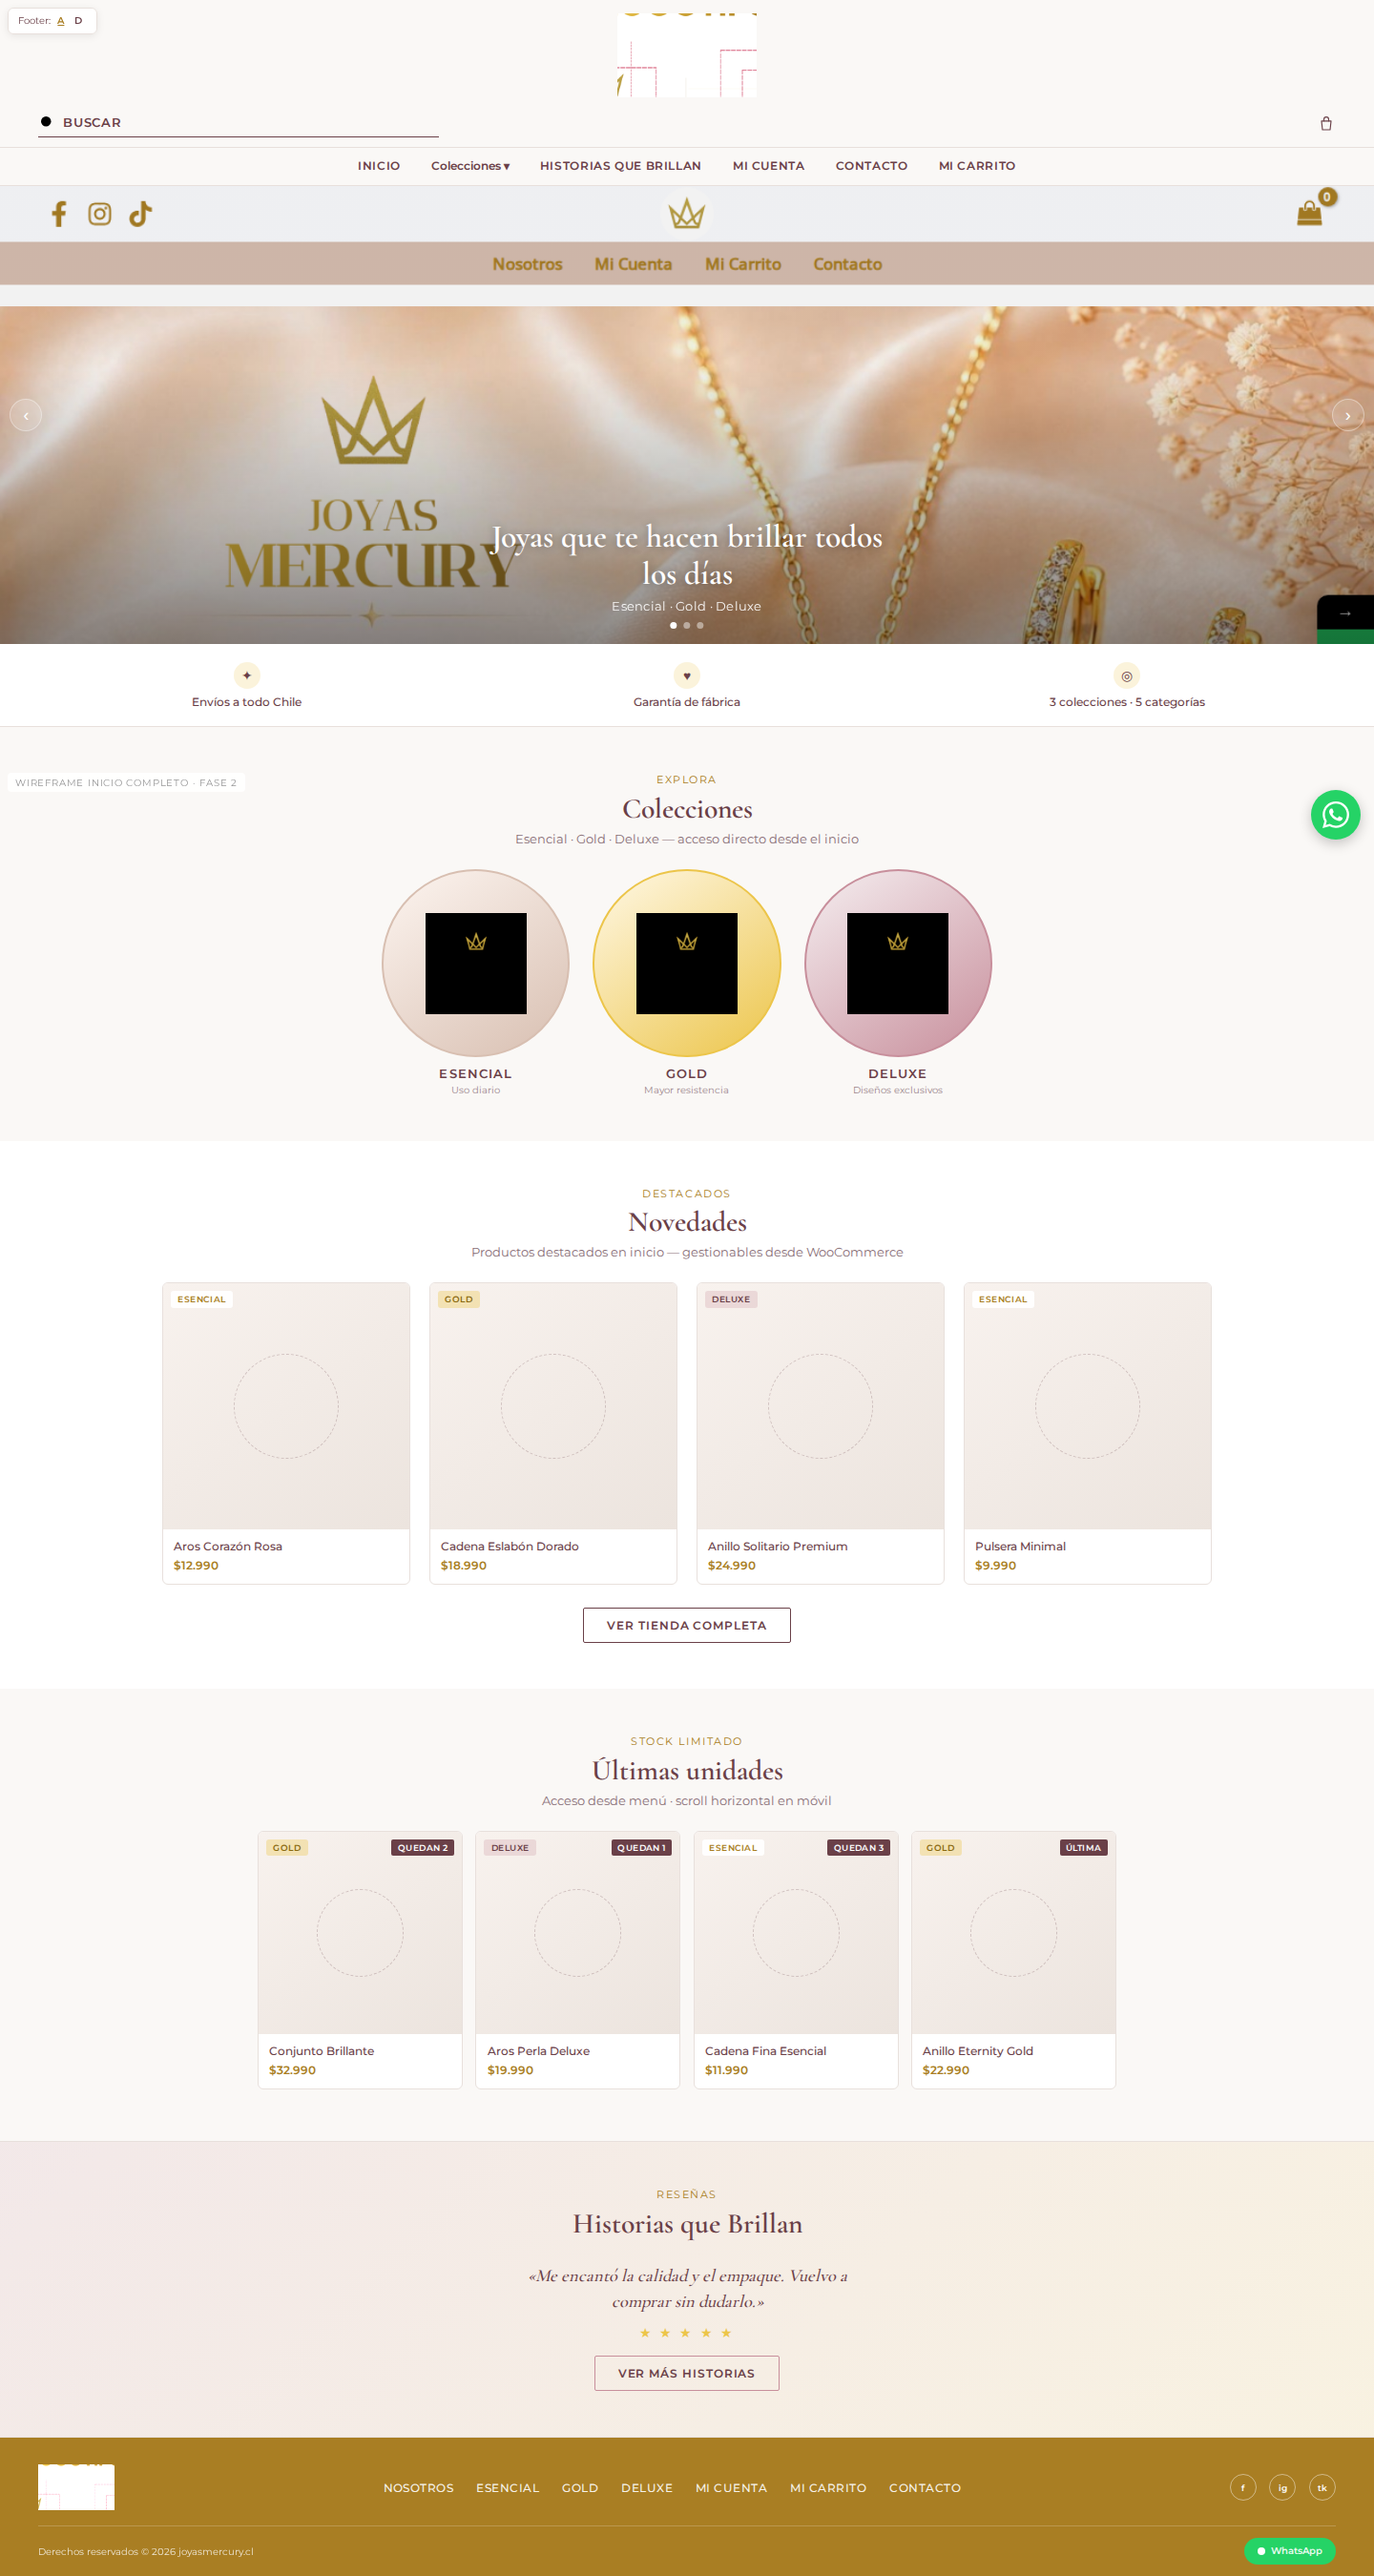
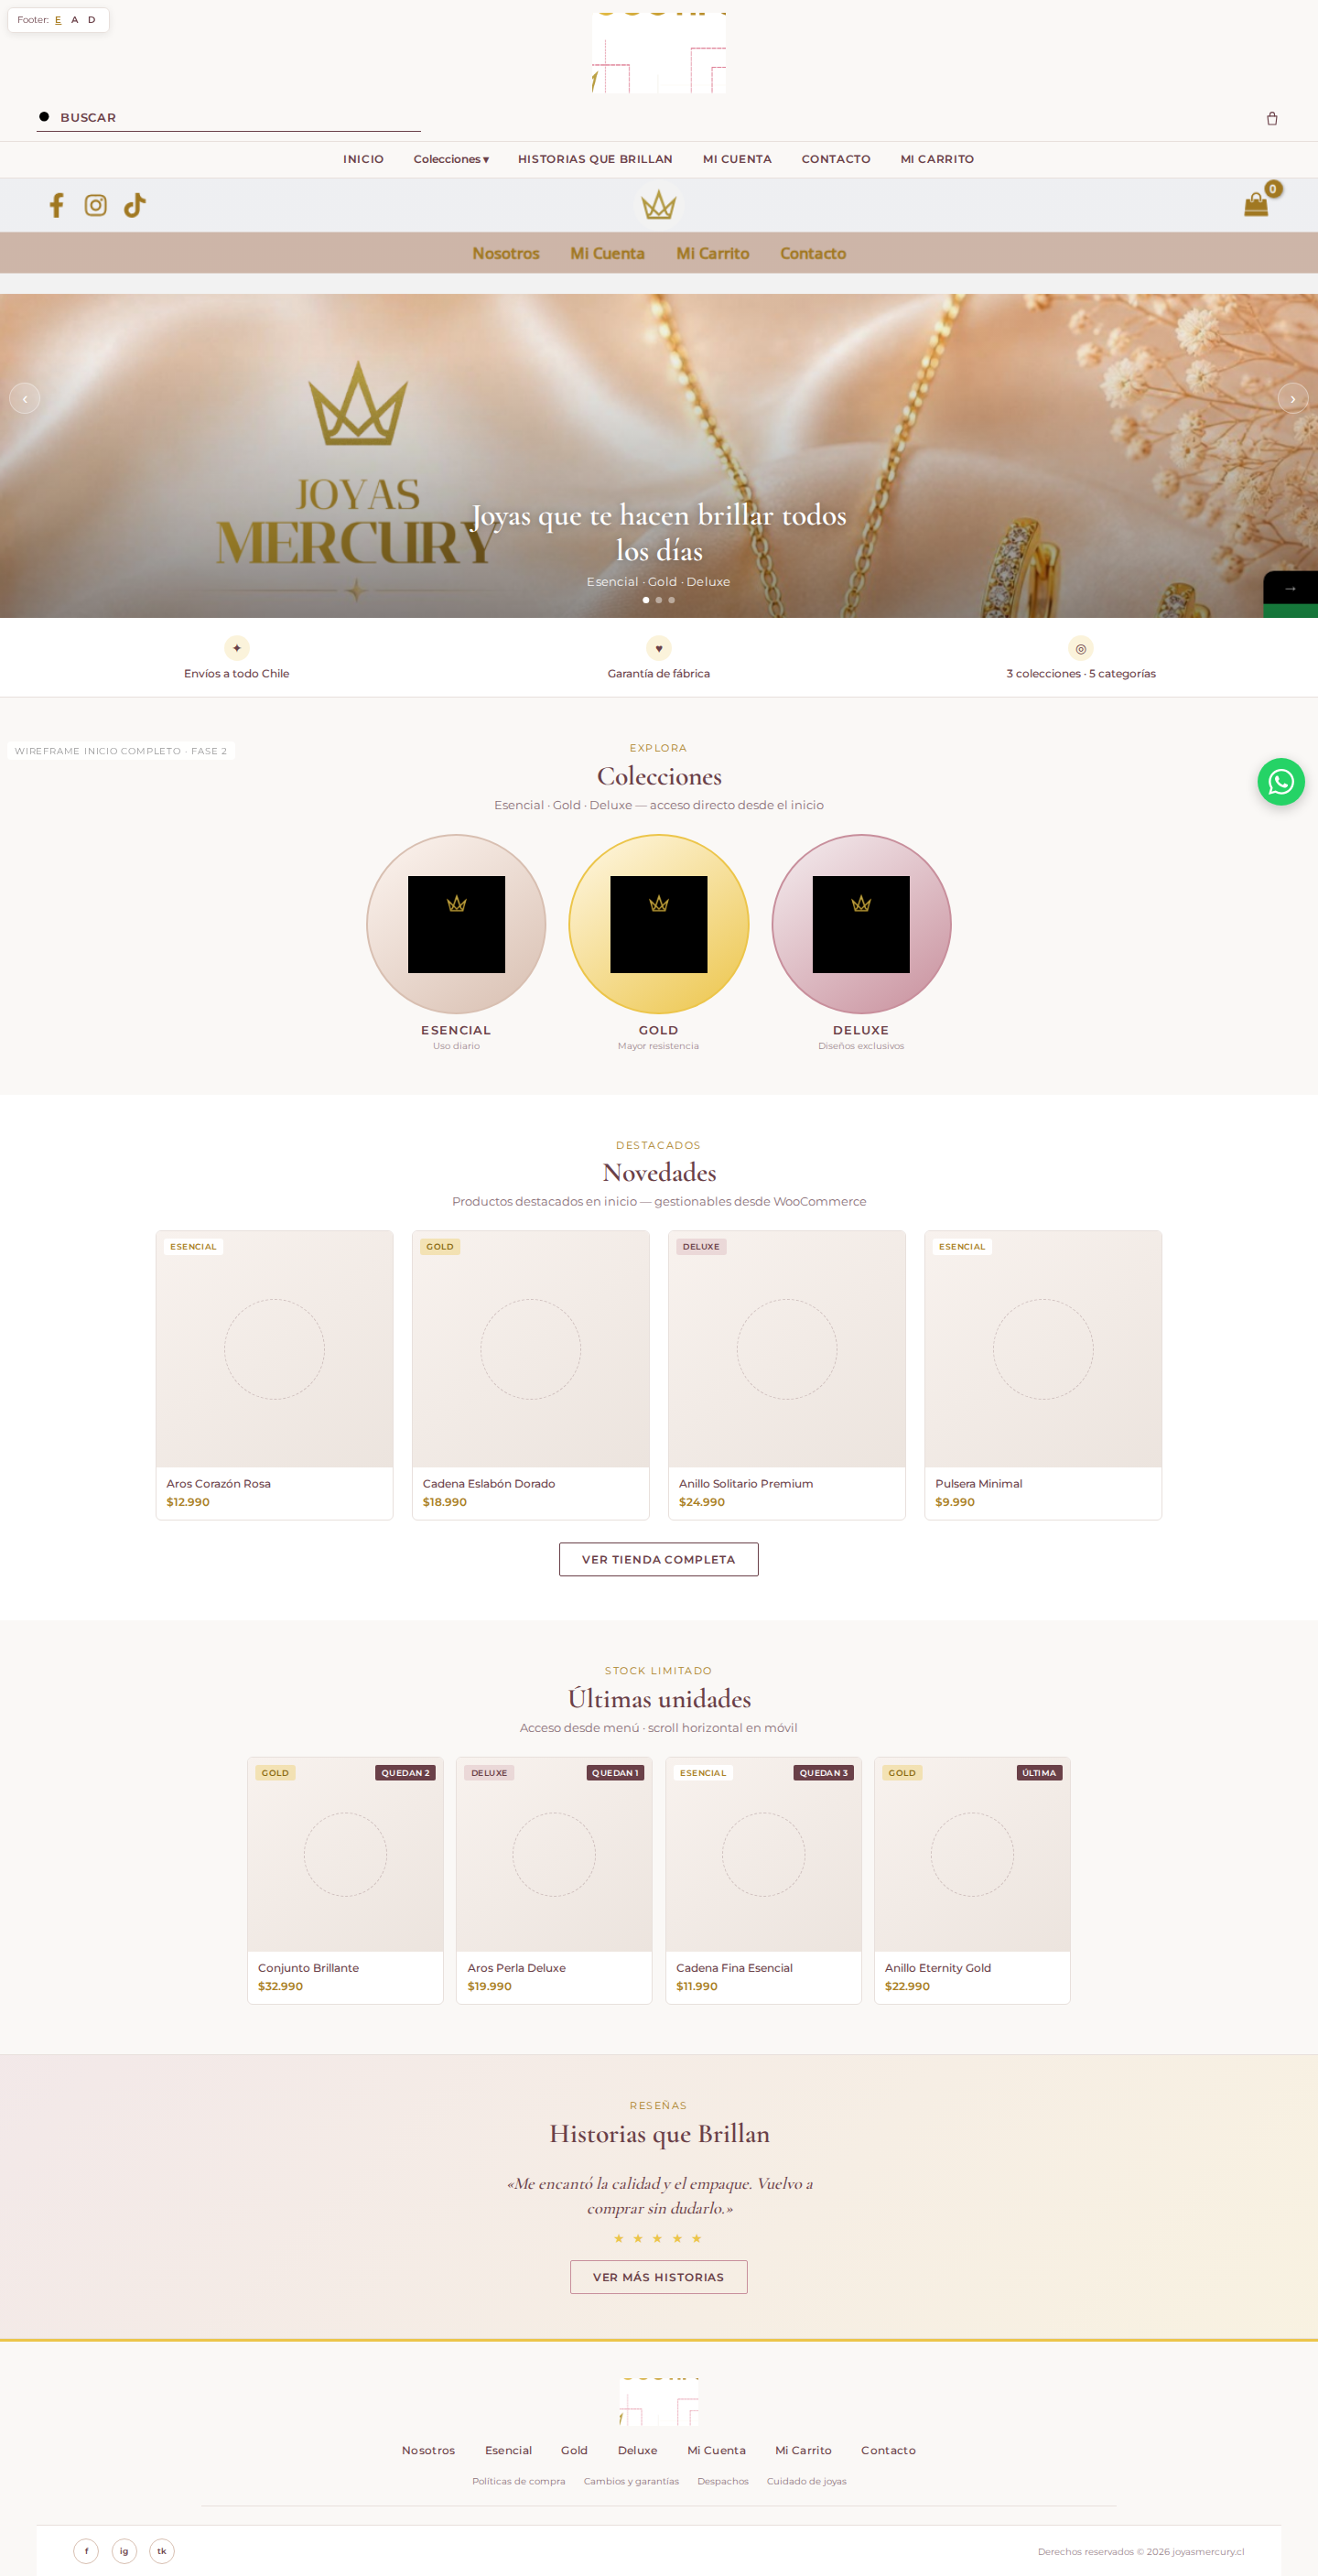
JM: footer E claro premium sin marco dorado (nuevo default)
Fondo crema, línea gold fina, links limpios y barra blanca inferior.
A y D siguen disponibles con ?footer=a|d.

diff --git a/index/clientes/JoyasMercury/interfaces/mockups-inicio/wireframe-inicio.html b/index/clientes/JoyasMercury/interfaces/mockups-inicio/wireframe-inicio.html
@@ -450,7 +450,11 @@
     .ft__wa-dot { width: 8px; height: 8px; background: #fff; border-radius: 50%; }
 
     body[data-footer="a"] #footer-d,
-    body[data-footer="d"] #footer-a { display: none; }
+    body[data-footer="a"] #footer-e,
+    body[data-footer="d"] #footer-a,
+    body[data-footer="d"] #footer-e,
+    body[data-footer="e"] #footer-a,
+    body[data-footer="e"] #footer-d { display: none; }
 
     .ft-a {
       background: var(--gold-dark);
@@ -502,6 +506,72 @@
     .ft-d__copy {
       border-top: 1px solid rgba(255,255,255,0.2);
       padding-top: 0.75rem; text-align: center;
+    }
+
+    /* —— Footer E · claro premium (sin marco dorado) —— */
+    .ft-e {
+      background: var(--cream);
+      color: var(--mauve);
+      border-top: 3px solid var(--gold);
+      padding: 2rem 1.25rem 0;
+    }
+    .ft-e a { color: var(--mauve); }
+    .ft-e a:hover { color: var(--gold-dark); }
+    .ft-e__inner {
+      max-width: 1000px;
+      margin: 0 auto;
+      text-align: center;
+    }
+    .ft-e__logo {
+      height: 52px;
+      width: auto;
+      margin: 0 auto 1.25rem;
+      display: block;
+      filter: none;
+    }
+    .ft-e__nav {
+      display: grid;
+      grid-template-columns: 1fr 1fr;
+      gap: 0.45rem 1.5rem;
+      max-width: 320px;
+      margin: 0 auto 1.25rem;
+      text-align: left;
+    }
+    .ft-e__nav a {
+      font-size: 0.72rem;
+      font-weight: 500;
+      letter-spacing: 0.03em;
+    }
+    .ft-e__legal {
+      display: flex;
+      flex-wrap: wrap;
+      justify-content: center;
+      gap: 0.5rem 1.25rem;
+      margin-bottom: 1.25rem;
+      padding-bottom: 1.25rem;
+      border-bottom: 1px solid var(--line);
+    }
+    .ft-e__legal a {
+      font-size: 0.65rem;
+      color: #8a7078;
+    }
+    .ft-e__bottom {
+      background: #fff;
+      border-top: 1px solid var(--line);
+      padding: 0.85rem 1.25rem;
+      display: flex;
+      flex-direction: column;
+      align-items: center;
+      gap: 0.65rem;
+    }
+    .ft-e__social span {
+      border-color: var(--beige);
+      color: var(--mauve);
+    }
+    .ft-e__copy {
+      font-size: 0.62rem;
+      color: #9a858c;
+      opacity: 1;
     }
 
     .jm-footer-switch {
@@ -643,6 +713,20 @@
       }
       .ft-d__brand img { margin: 0; height: 48px; }
       .ft-d__mid { grid-template-columns: repeat(3, 1fr); }
+      .ft-e { padding: 2.5rem 2.5rem 0; }
+      .ft-e__nav {
+        display: flex;
+        flex-wrap: wrap;
+        justify-content: center;
+        max-width: none;
+        gap: 0.5rem 2rem;
+        text-align: center;
+      }
+      .ft-e__bottom {
+        flex-direction: row;
+        justify-content: space-between;
+        padding: 0.85rem 2.5rem;
+      }
       .jm-bottom-nav { display: none; }
       .jm-wa-fab { bottom: 1.25rem; }
     }
@@ -881,11 +965,38 @@
 
   <div class="jm-footer-switch" aria-label="Alternar footer">
     Footer:
+    <a href="?footer=e" id="switch-e">E</a>
     <a href="?footer=a" id="switch-a">A</a>
     <a href="?footer=d" id="switch-d">D</a>
   </div>
 
-  <!-- Footer A · editorial horizontal (default) -->
+  <!-- Footer E · claro premium (default) -->
+  <footer class="ft ft-e" id="footer-e" aria-label="Pie de página · opción E">
+    <div class="ft-e__inner">
+      <img class="ft-e__logo" src="../../identidad/logo-jm-gold-vertical.png" alt="Joyas Mercury">
+      <nav class="ft-e__nav" aria-label="Enlaces principales">
+        <a href="#">Nosotros</a>
+        <a href="#">Esencial</a>
+        <a href="#">Gold</a>
+        <a href="#">Deluxe</a>
+        <a href="#">Mi Cuenta</a>
+        <a href="#">Mi Carrito</a>
+        <a href="#">Contacto</a>
+      </nav>
+      <div class="ft-e__legal">
+        <a href="#">Políticas de compra</a>
+        <a href="#">Cambios y garantías</a>
+        <a href="#">Despachos</a>
+        <a href="#">Cuidado de joyas</a>
+      </div>
+    </div>
+    <div class="ft-e__bottom">
+      <div class="ft__social ft-e__social"><span>f</span><span>ig</span><span>tk</span></div>
+      <p class="ft-e__copy">Derechos reservados © 2026 joyasmercury.cl</p>
+    </div>
+  </footer>
+
+  <!-- Footer A · editorial horizontal -->
   <footer class="ft ft-a" id="footer-a" aria-label="Pie de página · opción A">
     <div class="ft-a__row">
       <img class="ft__logo" src="../../identidad/logo-jm-gold-vertical.png" alt="Joyas Mercury">
@@ -976,12 +1087,13 @@
       dots.forEach(function (d, i) { d.onclick = function () { go(i); }; });
 
       var params = new URLSearchParams(location.search);
-      var footer = params.get('footer') === 'd' ? 'd' : 'a';
+      var footerParam = params.get('footer');
+      var footer = (footerParam === 'a' || footerParam === 'd') ? footerParam : 'e';
       document.body.dataset.footer = footer;
-      var swA = document.getElementById('switch-a');
-      var swD = document.getElementById('switch-d');
-      if (swA) swA.classList.toggle('is-active', footer === 'a');
-      if (swD) swD.classList.toggle('is-active', footer === 'd');
+      ['e', 'a', 'd'].forEach(function (k) {
+        var el = document.getElementById('switch-' + k);
+        if (el) el.classList.toggle('is-active', footer === k);
+      });
       if (params.get('shot') === '1') document.body.dataset.shot = '1';
       if (params.get('viewport') === 'desktop') document.body.dataset.shot = 'desktop';
     })();

diff --git a/index/clientes/JoyasMercury/interfaces/mockups-inicio/wireframe-footer-opciones.html b/index/clientes/JoyasMercury/interfaces/mockups-inicio/wireframe-footer-opciones.html
@@ -330,6 +330,38 @@
     .ft-d--mobile .ft-d__brand img { margin: 0 auto; display: block; }
     .ft-d--mobile .ft-d__mid { grid-template-columns: 1fr 1fr; text-align: left; }
 
+    /* —— E · Claro premium —— */
+    .ft-e {
+      background: var(--cream);
+      color: var(--mauve);
+      border-top: 3px solid var(--gold);
+      padding: 2rem 1.5rem 0;
+    }
+    .ft-e a { color: var(--mauve); text-decoration: none; }
+    .ft-e__inner { text-align: center; }
+    .ft-e__logo { height: 52px; margin-bottom: 1rem; filter: none; }
+    .ft-e__nav {
+      display: flex; flex-wrap: wrap; justify-content: center;
+      gap: 0.5rem 1.5rem; margin-bottom: 1rem;
+    }
+    .ft-e__nav a { font-size: 0.72rem; font-weight: 500; letter-spacing: 0.03em; }
+    .ft-e__legal {
+      display: flex; flex-wrap: wrap; justify-content: center;
+      gap: 0.5rem 1rem; margin-bottom: 1rem;
+      padding-bottom: 1rem; border-bottom: 1px solid var(--line);
+    }
+    .ft-e__legal a { font-size: 0.65rem; color: #8a7078; }
+    .ft-e__bottom {
+      background: #fff; border-top: 1px solid var(--line);
+      padding: 0.85rem 1.5rem;
+      display: flex; justify-content: space-between; align-items: center;
+      flex-wrap: wrap; gap: 0.75rem;
+    }
+    .ft-e__social span { border-color: var(--beige); color: var(--mauve); }
+    .ft-e__copy { font-size: 0.62rem; color: #9a858c; }
+    .ft-e--mobile .ft-e__nav { flex-direction: column; gap: 0.55rem; }
+    .ft-e--mobile .ft-e__bottom { flex-direction: column; text-align: center; }
+
     @media (max-width: 700px) {
       body { padding: 1.25rem 0.5rem 2rem; }
       .opcion__meta { padding: 1rem; }
@@ -567,6 +599,59 @@
               </div>
             </div>
             <div class="ft-d__copy"><p class="ft__copy">© 2026 joyasmercury.cl</p></div>
+          </footer>
+        </div>
+      </div>
+    </div>
+  </article>
+
+  <!-- OPCIÓN E -->
+  <article class="opcion" id="opcion-e">
+    <div class="opcion__meta">
+      <span class="opcion__tag opcion__tag--sel">Opción E · nueva · recomendada</span>
+      <h2 class="opcion__titulo">Claro premium · sin marco dorado</h2>
+      <p class="opcion__desc">Fondo crema como el resto del sitio, línea dorada fina arriba, logo centrado, links limpios, legales en gris, barra blanca con redes y copyright. WhatsApp solo flotante.</p>
+    </div>
+    <div class="opcion__previews">
+      <div class="preview">
+        <p class="preview__label">Desktop · 1440px</p>
+        <div class="preview__frame preview__frame--desktop">
+          <footer class="ft-e">
+            <div class="ft-e__inner">
+              <img class="ft-e__logo" src="../../identidad/logo-jm-gold-vertical.png" alt="Joyas Mercury">
+              <nav class="ft-e__nav">
+                <a href="#">Nosotros</a><a href="#">Esencial</a><a href="#">Gold</a><a href="#">Deluxe</a>
+                <a href="#">Mi Cuenta</a><a href="#">Mi Carrito</a><a href="#">Contacto</a>
+              </nav>
+              <div class="ft-e__legal">
+                <a href="#">Políticas de compra</a><a href="#">Cambios y garantías</a>
+                <a href="#">Despachos</a><a href="#">Cuidado de joyas</a>
+              </div>
+            </div>
+            <div class="ft-e__bottom">
+              <div class="ft__social ft-e__social"><span>f</span><span>ig</span><span>tk</span></div>
+              <p class="ft-e__copy">Derechos reservados © 2026 joyasmercury.cl</p>
+            </div>
+          </footer>
+        </div>
+      </div>
+      <div class="preview">
+        <p class="preview__label">Mobile · 390px</p>
+        <div class="preview__frame preview__frame--mobile">
+          <footer class="ft-e ft-e--mobile">
+            <div class="ft-e__inner">
+              <img class="ft-e__logo ft__logo--sm" src="../../identidad/logo-jm-gold-vertical.png" alt="">
+              <nav class="ft-e__nav">
+                <a href="#">Nosotros</a><a href="#">Mi Cuenta</a><a href="#">Mi Carrito</a><a href="#">Contacto</a>
+              </nav>
+              <div class="ft-e__legal">
+                <a href="#">Políticas</a><a href="#">Garantías</a><a href="#">Despachos</a>
+              </div>
+            </div>
+            <div class="ft-e__bottom">
+              <div class="ft__social ft-e__social"><span>f</span><span>ig</span><span>tk</span></div>
+              <p class="ft-e__copy">© 2026 joyasmercury.cl</p>
+            </div>
           </footer>
         </div>
       </div>

diff --git a/data/jm-backup-contenido.js b/data/jm-backup-contenido.js
@@ -295,25 +295,37 @@ window.jmWireframeSrc = function jmWireframeSrc(carpeta, archivo) {
 /** Pantallas del diseño Fase 2 (se van agregando aquí) */
 window.JM_NUEVO_PROTOTIPO = {
   version: 1,
-  intro: 'Diseño propuesto Fase 2 · inicio completo · footers A y D seleccionados · responsive mobile/desktop.',
+  intro: 'Diseño propuesto Fase 2 · footer E claro premium (default) · también A y D.',
   secciones: [
     {
       id: 'inicio',
       titulo: 'Inicio · wireframe completo',
-      descripcion: 'Header, carrusel, colecciones, Novedades, Últimas unidades, Historias. Footer A (default) o D con ?footer=d en el wireframe.',
+      descripcion: 'Header, carrusel, colecciones, Novedades, Últimas unidades, Historias. Footer E (default) sin marco dorado · A y D con ?footer=a o ?footer=d.',
       wireframe: 'interfaces/mockups-inicio/wireframe-inicio.html',
       pantallas: [
+        {
+          id: 'inicio-mobile-e',
+          vista: 'mobile',
+          titulo: 'Mobile · footer E',
+          archivo: 'interfaces/mockups-inicio/jm-inicio-wireframe-mobile.png'
+        },
+        {
+          id: 'inicio-desktop-e',
+          vista: 'desktop',
+          titulo: 'Desktop · footer E',
+          archivo: 'interfaces/mockups-inicio/jm-inicio-wireframe-desktop.png'
+        },
         {
           id: 'inicio-mobile-a',
           vista: 'mobile',
           titulo: 'Mobile · footer A',
-          archivo: 'interfaces/mockups-inicio/jm-inicio-wireframe-mobile.png'
+          archivo: 'interfaces/mockups-inicio/jm-inicio-footer-a-mobile.png'
         },
         {
           id: 'inicio-desktop-a',
           vista: 'desktop',
           titulo: 'Desktop · footer A',
-          archivo: 'interfaces/mockups-inicio/jm-inicio-wireframe-desktop.png'
+          archivo: 'interfaces/mockups-inicio/jm-inicio-footer-a-desktop.png'
         },
         {
           id: 'inicio-mobile-d',
@@ -331,8 +343,8 @@ window.JM_NUEVO_PROTOTIPO = {
     },
     {
       id: 'footer-opciones',
-      titulo: 'Footer · A y D seleccionadas',
-      descripcion: 'Opción A editorial horizontal (default) · Opción D columnas + contacto WhatsApp. Comparativa completa en wireframe-footer-opciones.html.',
+      titulo: 'Footer · E (nuevo) · A · D',
+      descripcion: 'E claro premium sin marco dorado (recomendado) · A editorial horizontal · D columnas + contacto.',
       wireframe: 'interfaces/mockups-inicio/wireframe-footer-opciones.html',
       pantallas: [
         {

diff --git a/scripts/capturar-jm-wireframe-inicio.py b/scripts/capturar-jm-wireframe-inicio.py
@@ -8,8 +8,10 @@ HTML = ROOT / "index/clientes/JoyasMercury/interfaces/mockups-inicio/wireframe-i
 OUT = HTML.parent
 
 CAPTURAS = [
-    ("jm-inicio-wireframe-mobile.png", 390, 844, "mobile", "a"),
-    ("jm-inicio-wireframe-desktop.png", 1440, 900, "desktop", "a"),
+    ("jm-inicio-wireframe-mobile.png", 390, 844, "mobile", "e"),
+    ("jm-inicio-wireframe-desktop.png", 1440, 900, "desktop", "e"),
+    ("jm-inicio-footer-a-mobile.png", 390, 844, "mobile", "a"),
+    ("jm-inicio-footer-a-desktop.png", 1440, 900, "desktop", "a"),
     ("jm-inicio-footer-d-mobile.png", 390, 844, "mobile", "d"),
     ("jm-inicio-footer-d-desktop.png", 1440, 900, "desktop", "d"),
 ]

diff --git a/index/clientes/JoyasMercury/interfaces/mockups-inicio/README.md b/index/clientes/JoyasMercury/interfaces/mockups-inicio/README.md
@@ -22,7 +22,7 @@ http://localhost:3000/index/clientes/JoyasMercury/interfaces/mockups-inicio/wire
 | 6 | Novedades / destacados | Grilla productos WC |
 | 7 | Últimas unidades | Scroll horizontal móvil |
 | 8 | Historias que Brillan | Teaser reseñas |
-| 9 | Footer dorado | Legales · newsletter · redes |
+| 9 | Footer claro premium (E) | Sin marco dorado · línea gold fina |
 | 10 | WhatsApp flotante | Verde oficial |
 | 11 | Nav inferior móvil | WP Bottom Menu |
 
@@ -53,12 +53,13 @@ http://localhost:3000/index/clientes/JoyasMercury/interfaces/mockups-inicio/wire
 
 | Opción | Estilo |
 |--------|--------|
+| **E** ✓ nuevo | Claro premium — crema, sin bloque dorado, línea gold fina |
 | **A** ✓ | Editorial horizontal — logo + links en fila + redes |
 | **B** | Dos niveles — franja crema (marca + WhatsApp) + dorado (4 columnas) |
 | **C** | Centrado minimal — logo y links al centro, estilo boutique |
 | **D** ✓ | 3 columnas + bloque contacto WhatsApp a la derecha |
 
-En el wireframe de inicio alterna entre **A** (default) y **D** con `?footer=a` o `?footer=d`, o el selector arriba a la izquierda.
+En el wireframe de inicio: **E** es el default. Alterna con `?footer=e`, `?footer=a` o `?footer=d`.
 
 Regenerar capturas:
 